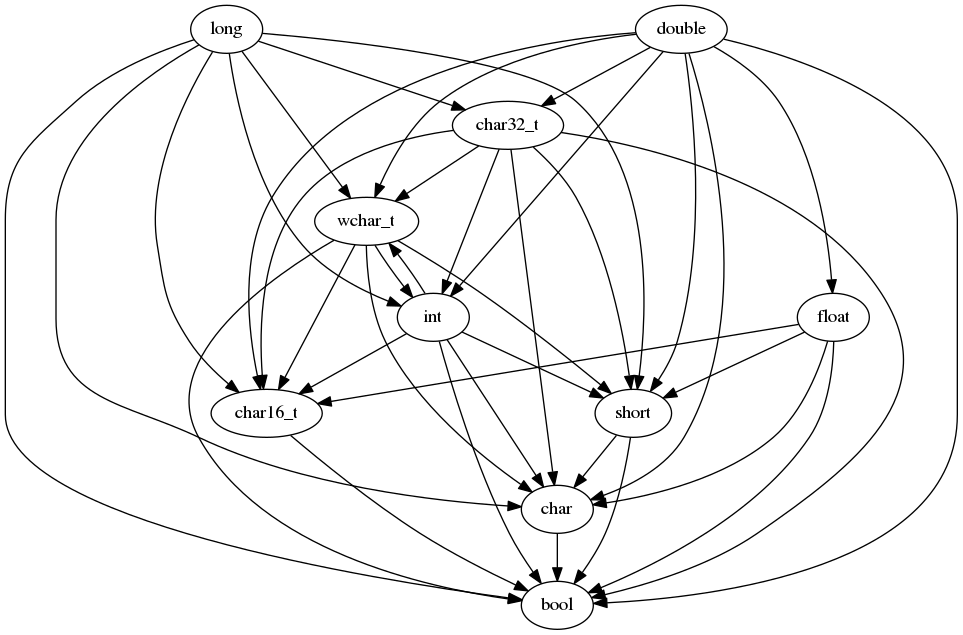
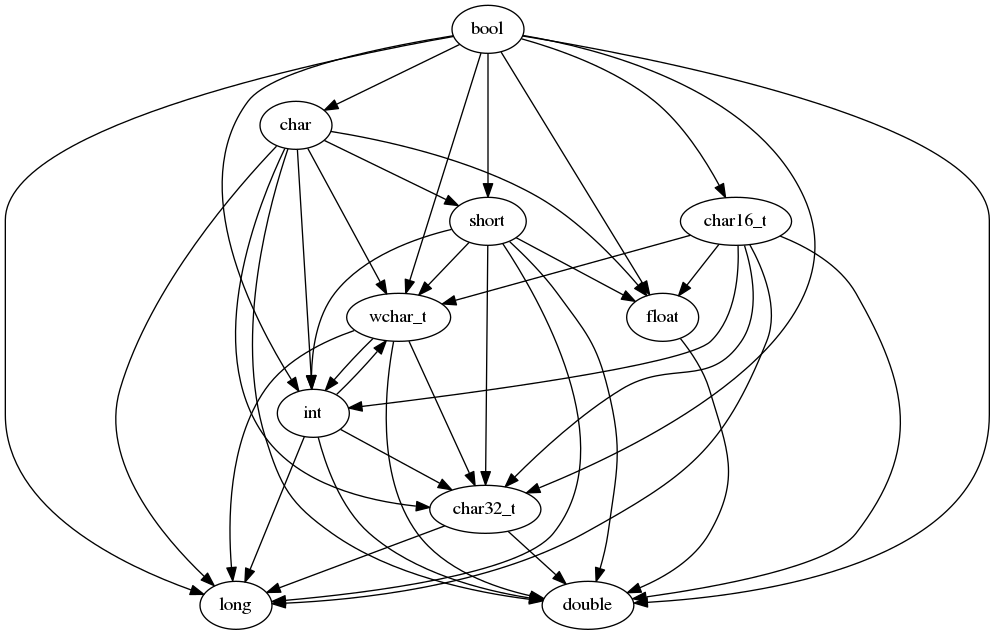
X.7 Types and Declarations

diff --git a/X7/11.cpp b/X7/11.cpp
@@ -56,7 +56,7 @@ template <class A, class B>
 void print_graph_helper()
 {
   if (A_has_B<A, B>())
-    std::cerr << typeid(A).name() << " -> " << typeid(B).name() << std::endl;
+    std::cerr << typeid(B).name() << " -> " << typeid(A).name() << std::endl;
 }
 
 template <class A, class B>
